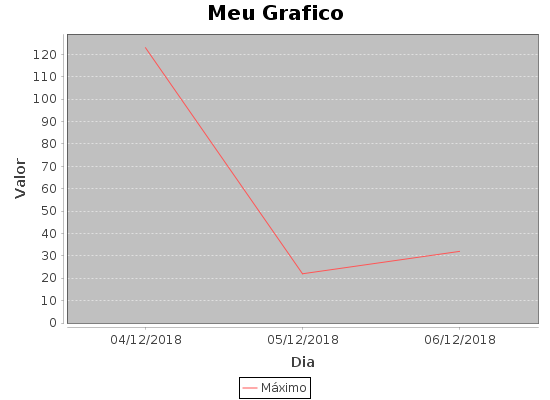
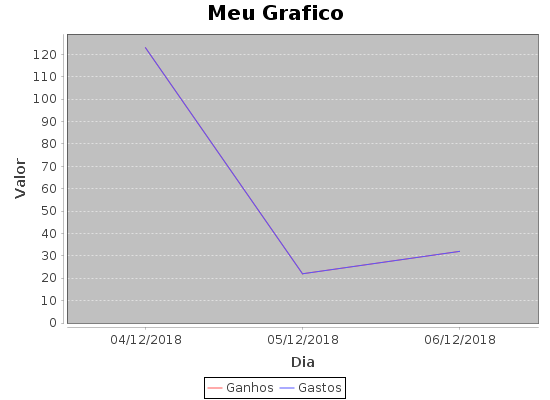
Gráfico

diff --git a/src/simulacoes/Gastos.java b/src/simulacoes/Gastos.java
@@ -55,11 +55,12 @@ public class Gastos extends javax.swing.JPanel {
             ResultSet rs = st.executeQuery(search);
             
             DefaultCategoryDataset ds = new DefaultCategoryDataset();
-            ArrayList<Double> saldoList = new ArrayList<Double>();
+            ArrayList<Double> transacaoList = new ArrayList<Double>();
+            
             while (rs.next()) {
                 System.out.println(rs.getDouble("ValorTransacao"));
-                saldoList.add(rs.getDouble("ValorTransacao"));
-
+                transacaoList.add(rs.getDouble("ValorTransacao"));
+                
             }
 
             String search2 = "SELECT DataTransacao FROM Transacao NATURAL JOIN Cliente_tem_Transacao WHERE Cliente_tem_Transacao.Id_Cliente='" + u.getIdCliente() + "'";
@@ -73,8 +74,25 @@ public class Gastos extends javax.swing.JPanel {
                 dataList.add(rs2.getString("DataTransacao"));
             }
             
-            for (int i = 0; i < saldoList.size(); i++) {
-                ds.addValue(saldoList.get(i), "Máximo", dataList.get(i));
+            String searchGasto = "SELECT ValorTransacao FROM Transacao NATURAL RIGHT JOIN Cliente_tem_Transacao WHERE Cliente_tem_Transacao.Id_Cliente='" + u.getIdCliente() + "'";
+            Statement st4 = conn.createStatement();
+            ResultSet rs4 = st4.executeQuery(searchGasto);
+            ArrayList<Double> gastoList = new ArrayList<Double>();
+            while(rs4.next()){
+                gastoList.add(rs4.getDouble("ValorTransacao"));
+            }
+            
+            String searchData = "SELECT DataTransacao FROM Transacao NATURAL RIGHT JOIN Cliente_tem_Transacao WHERE Cliente_tem_Transacao.Id_Cliente='" + u.getIdCliente() + "'";
+            Statement st5 = conn.createStatement();
+            ResultSet rs5 = st5.executeQuery(searchData);
+            ArrayList<String> data2List = new ArrayList<String>();
+            while(rs5.next()){
+                data2List.add(rs5.getString("DataTransacao"));
+            }
+            
+            for (int i = 0; i < transacaoList.size(); i++) {
+                ds.addValue(transacaoList.get(i), "Ganhos", dataList.get(i));
+                ds.addValue(gastoList.get(i), "Gastos", dataList.get(i));
             }
 
             JFreeChart grafico = ChartFactory.createLineChart("Meu Grafico", "Dia", "Valor", ds, PlotOrientation.VERTICAL, true,true,false);
